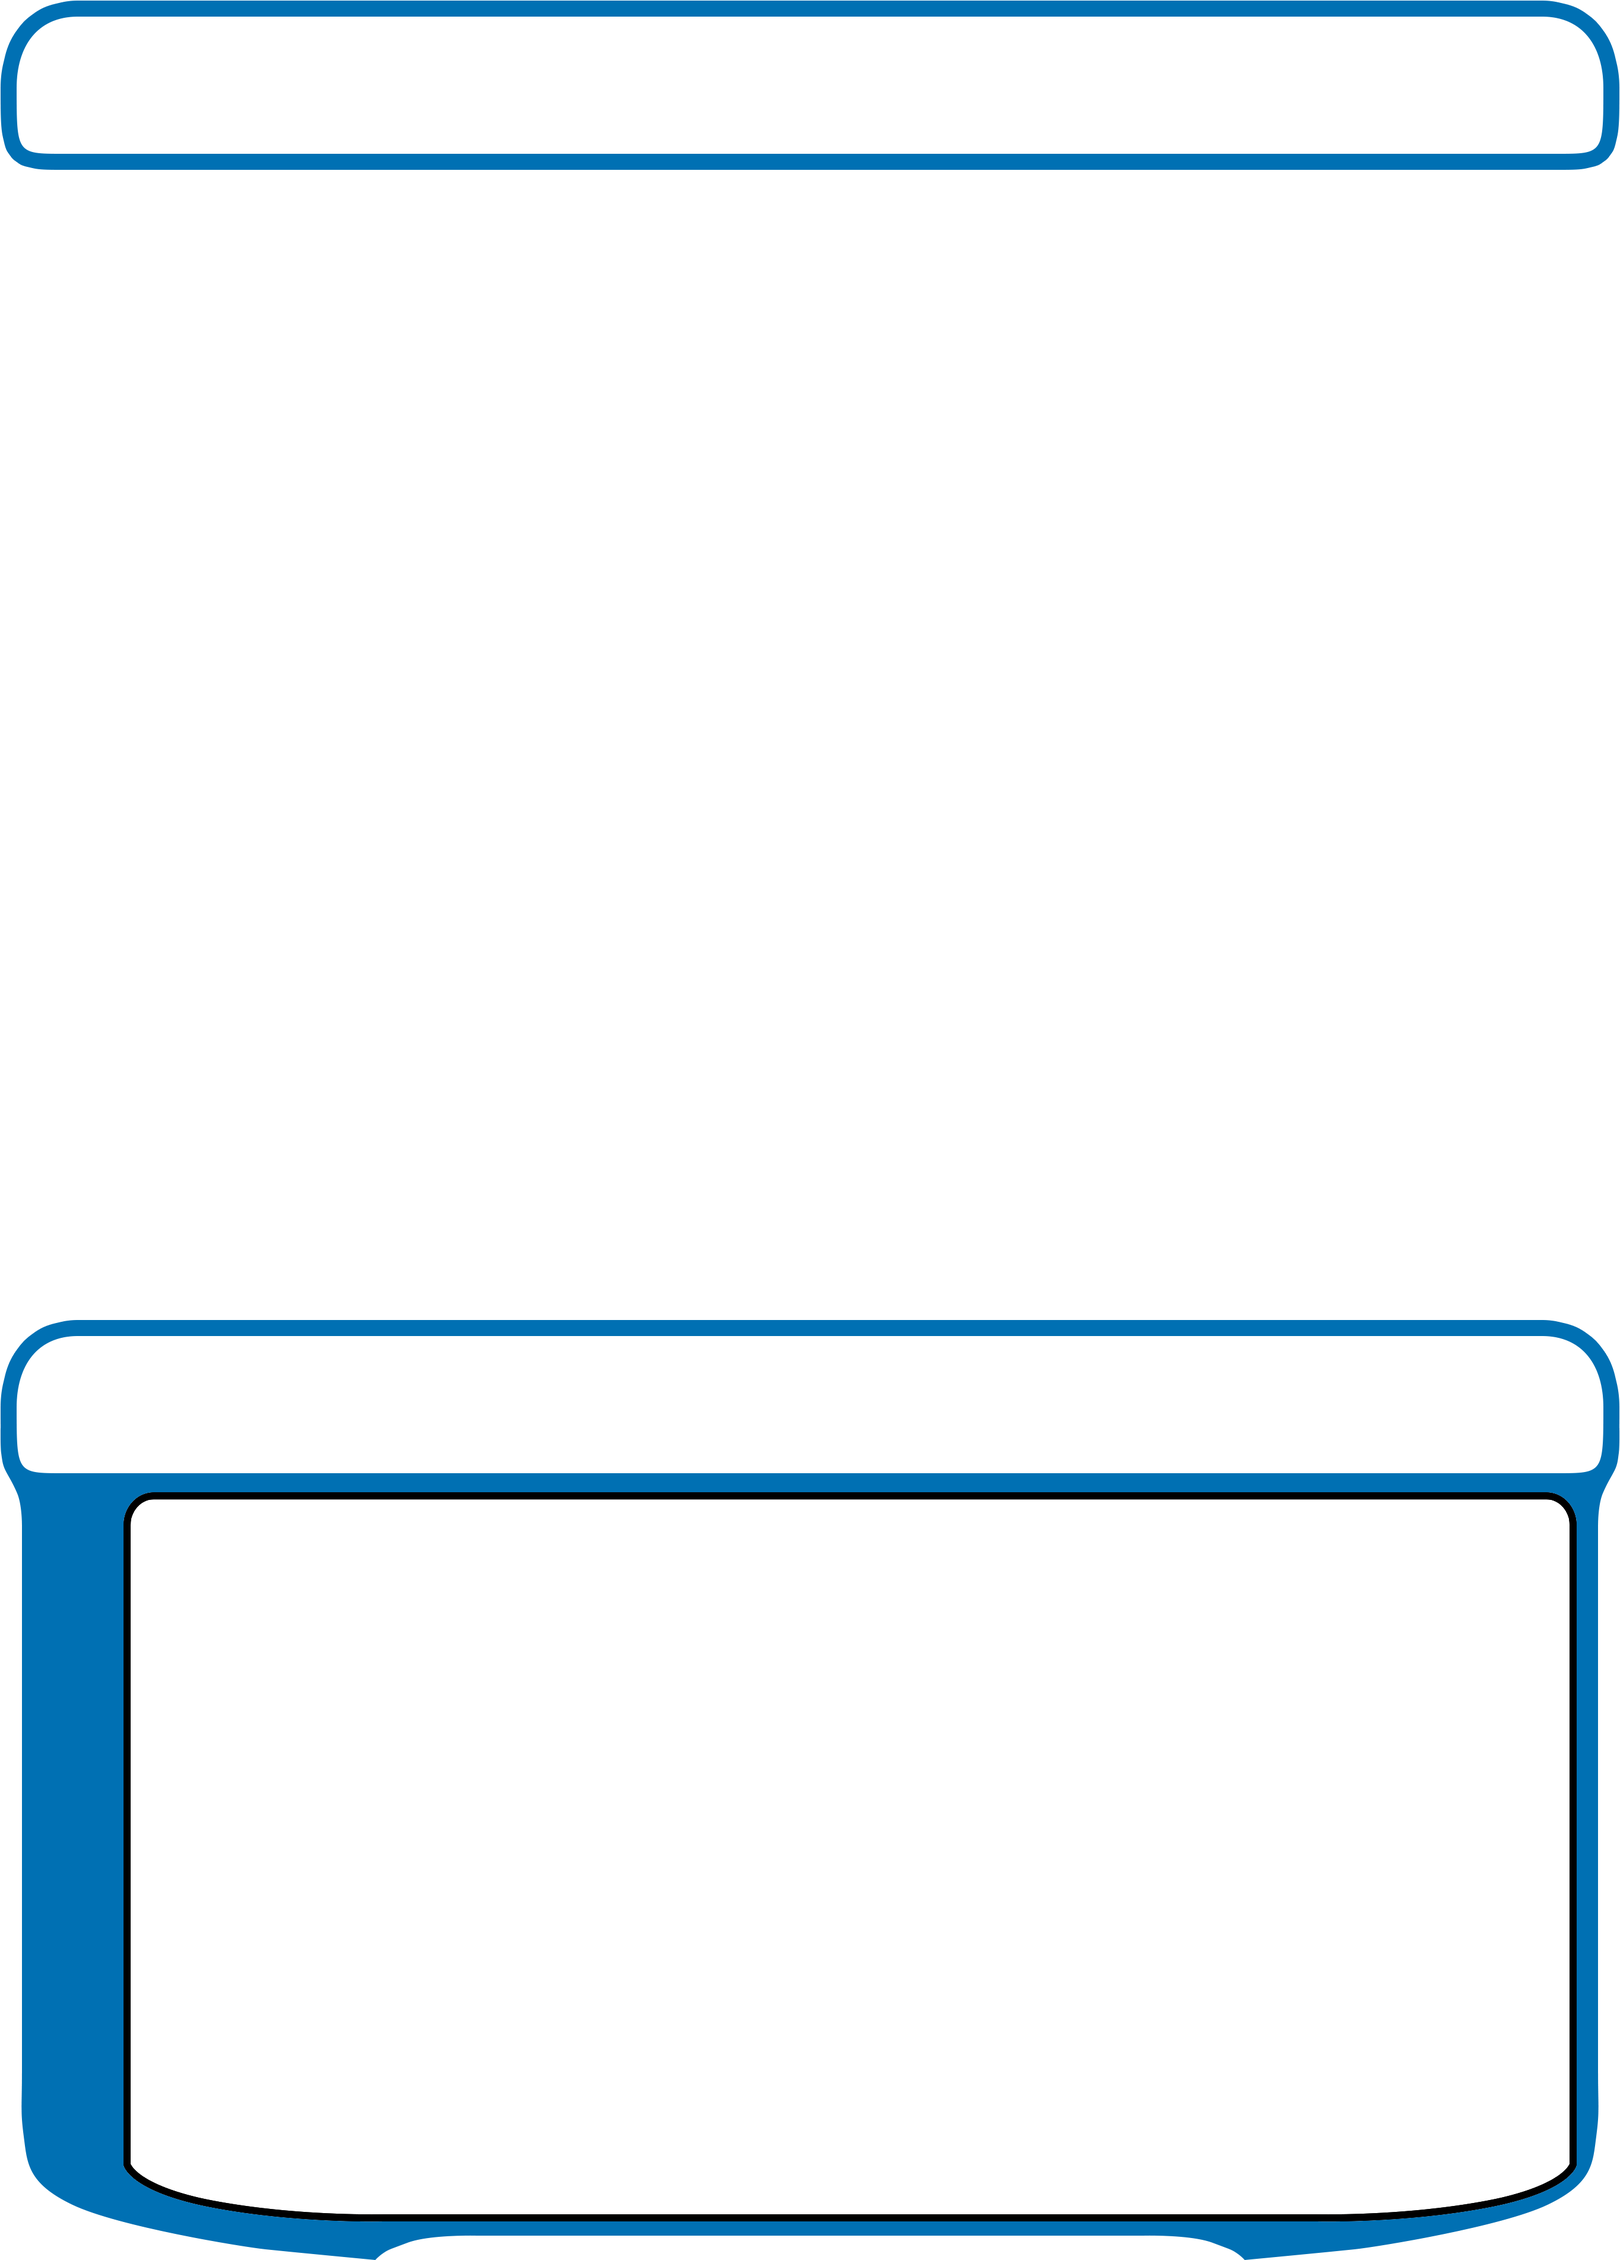
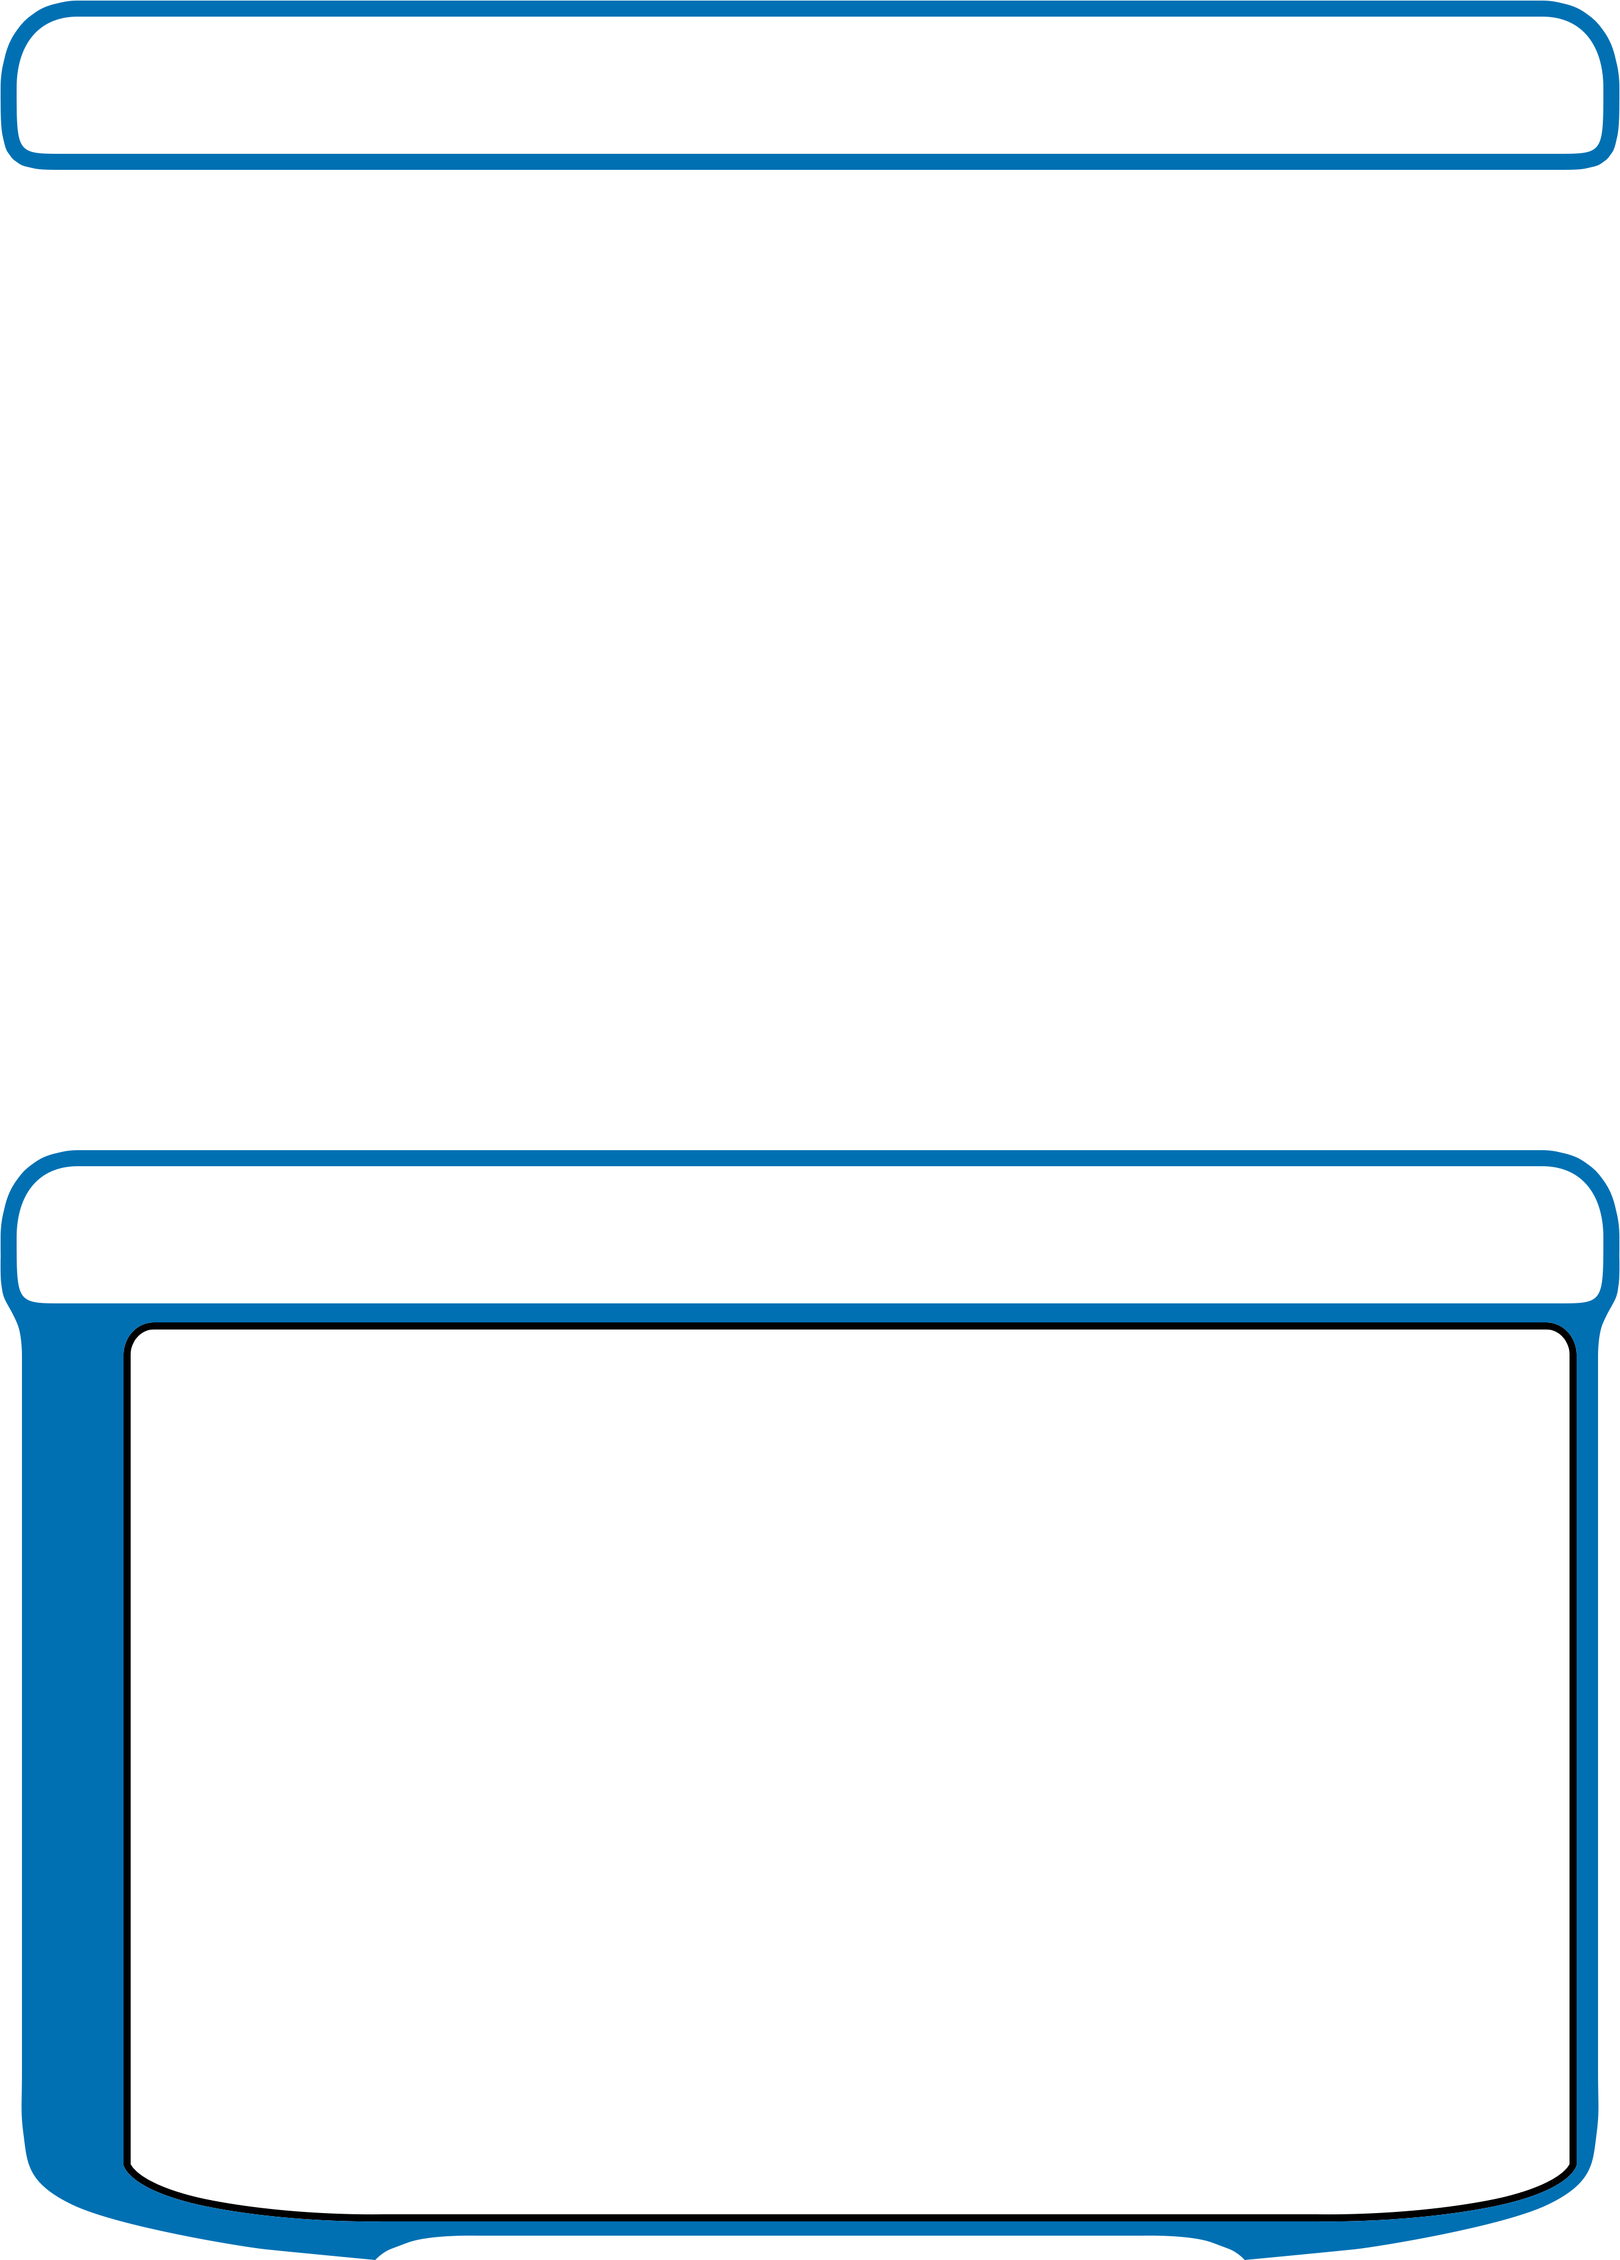
Large PL (> 3 abilities) support

Changed region(s): [[0.0, 0.4961, 1.0, 0.6821]]

diff --git a/client/src/components/MTGCard.vue b/client/src/components/MTGCard.vue
@@ -5,6 +5,7 @@
 			mdfc: is_mdfc,
 			legendary: is_legendary,
 			planeswalker: is_planeswalker,
+			'planeswalker-large': is_large_planeswalker,
 			saga: is_saga,
 			adventure: is_adventure,
 			'extended-art': card.art_variant === 'extended',
@@ -512,6 +513,9 @@ export default {
 		is_planeswalker() {
 			return this.card_face?.type_line?.toLowerCase().includes("planeswalker");
 		},
+		is_large_planeswalker() {
+			return this.is_planeswalker && this.planeswalker_abilities.length > 3;
+		},
 		is_saga() {
 			return (
 				this.card_face?.layout === "saga" ||
@@ -635,7 +639,9 @@ export default {
 		},
 		background() {
 			const folder = this.is_planeswalker
-				? "planeswalker_bg"
+				? this.is_large_planeswalker
+					? "planeswalker_large_bg"
+					: "planeswalker_bg"
 				: this.is_saga
 				? "saga_bg"
 				: "bg";
@@ -654,7 +660,11 @@ export default {
 				: this.is_saga
 				? "saga_frames"
 				: this.is_planeswalker
-				? this.extended_art
+				? this.is_large_planeswalker
+					? this.extended_art
+						? "extended_planeswalker_large_frames"
+						: "planeswalker_large_frames"
+					: this.extended_art
 					? "extended_planeswalker_frames"
 					: "planeswalker_frames"
 				: this.is_mdfc
@@ -916,6 +926,10 @@ export default {
 	margin-top: 1.3mm;
 }
 
+.planeswalker-large .mid-line {
+	margin-top: -4.6mm;
+}
+
 .name {
 	font-size: 9.454pt;
 	margin-top: -0.4mm;
@@ -1167,6 +1181,11 @@ export default {
 		inset 0.2mm 0.2mm 0.2mm #00000080;
 }
 
+.planeswalker-large .planeswalker-oracle-bg {
+	top: 47mm;
+	height: 31.45mm;
+}
+
 .planeswalker-oracle {
 	position: absolute;
 	left: 0;
@@ -1184,6 +1203,11 @@ export default {
 	padding: 0.5mm;
 	padding-left: 5.5mm;
 	padding-bottom: 1mm;
+}
+
+.planeswalker-large .planeswalker-oracle {
+	top: 47.5mm;
+	height: 29mm;
 }
 
 /************** Saga *************/
@@ -1280,6 +1304,7 @@ export default {
 
 .planeswalker-ability {
 	position: relative;
+	flex-shrink: 0;
 }
 
 .planeswalker-ability-with-cost {
@@ -1500,6 +1525,11 @@ export default {
 .mdfc .planeswalker-oracle {
 	left: 1mm;
 	height: 22mm;
+}
+
+.mdfc.planeswalker-large .planeswalker-oracle {
+	left: 1mm;
+	height: 28mm;
 }
 
 .mdfc-icon {

diff --git a/client/Readme.md b/client/Readme.md
@@ -3,12 +3,12 @@
 ## TODO list
 
 -   Priorities:
--   -   Extended Art support
+-   -   ~~Extended Art support~~ (MDFC not supported yet)
 -   -   Rethink card hierarchy: inner-frame filter shouldn't apply to its current current child, probably flatten everything.
 -   ~~Support for Planeswalkers~~
 -   -   ~~Redo borders to cover the curse of the illustration frame~~
 -   -   Alternating background tint on abilities
--   -   Add support for the "\_large" version for the frame
+-   -   ~~Add support for the "\_large" version for the frame~~
 -   -   Way harder: Allow for dynamic sizing of frame and background! (dynamic svg for the frame?)
 -   Support for MDFCs
 -   -   ~~Basic support for card faces display~~
